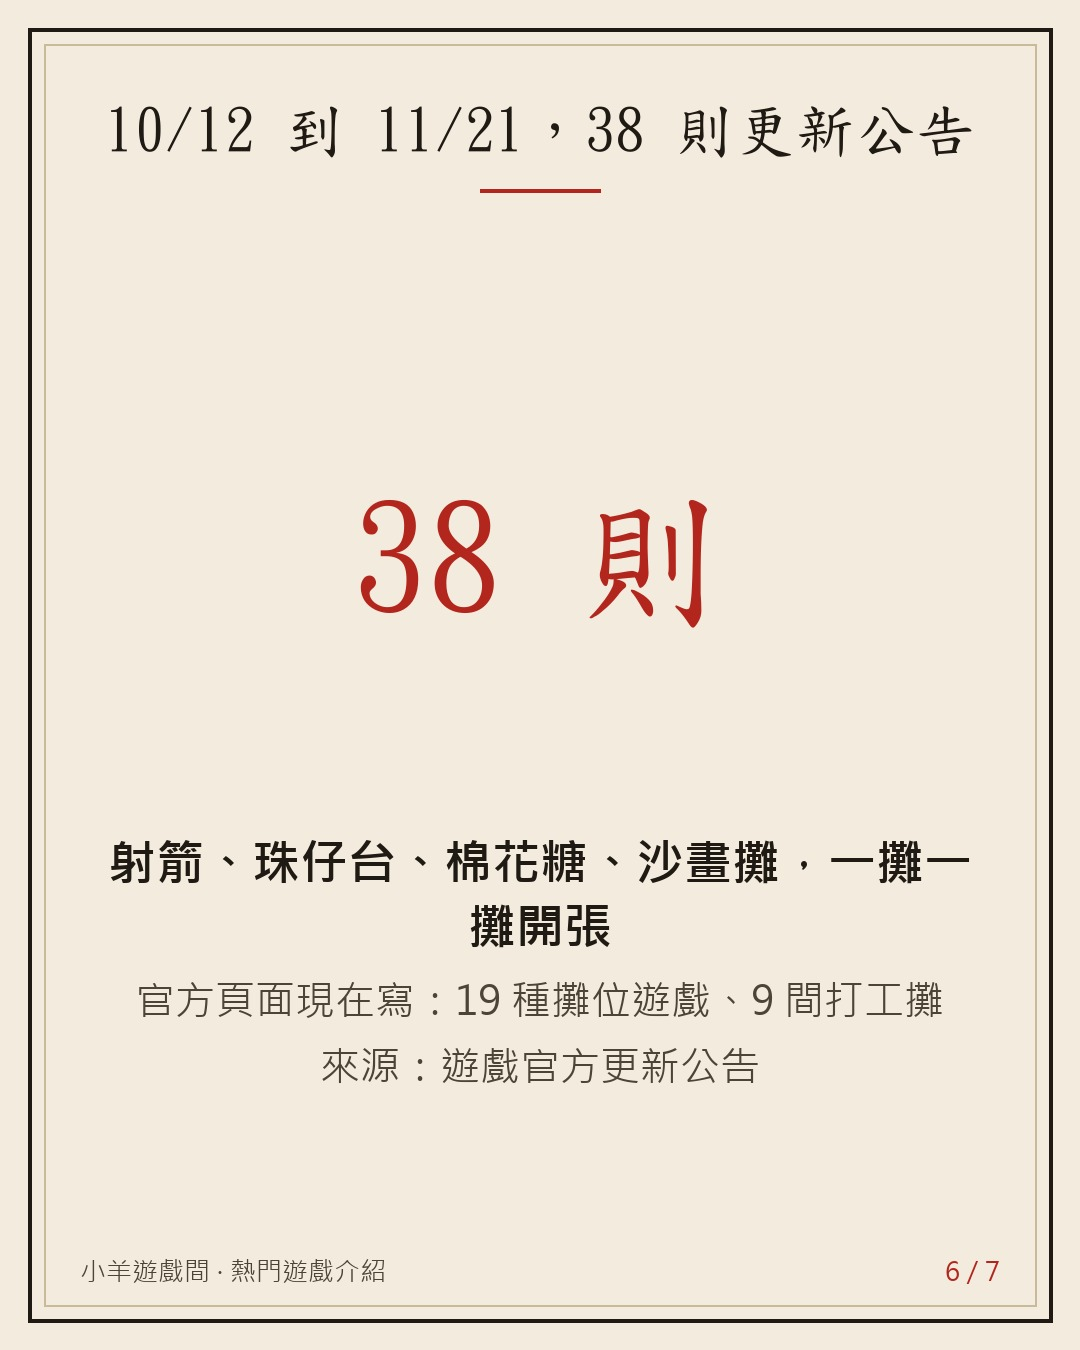
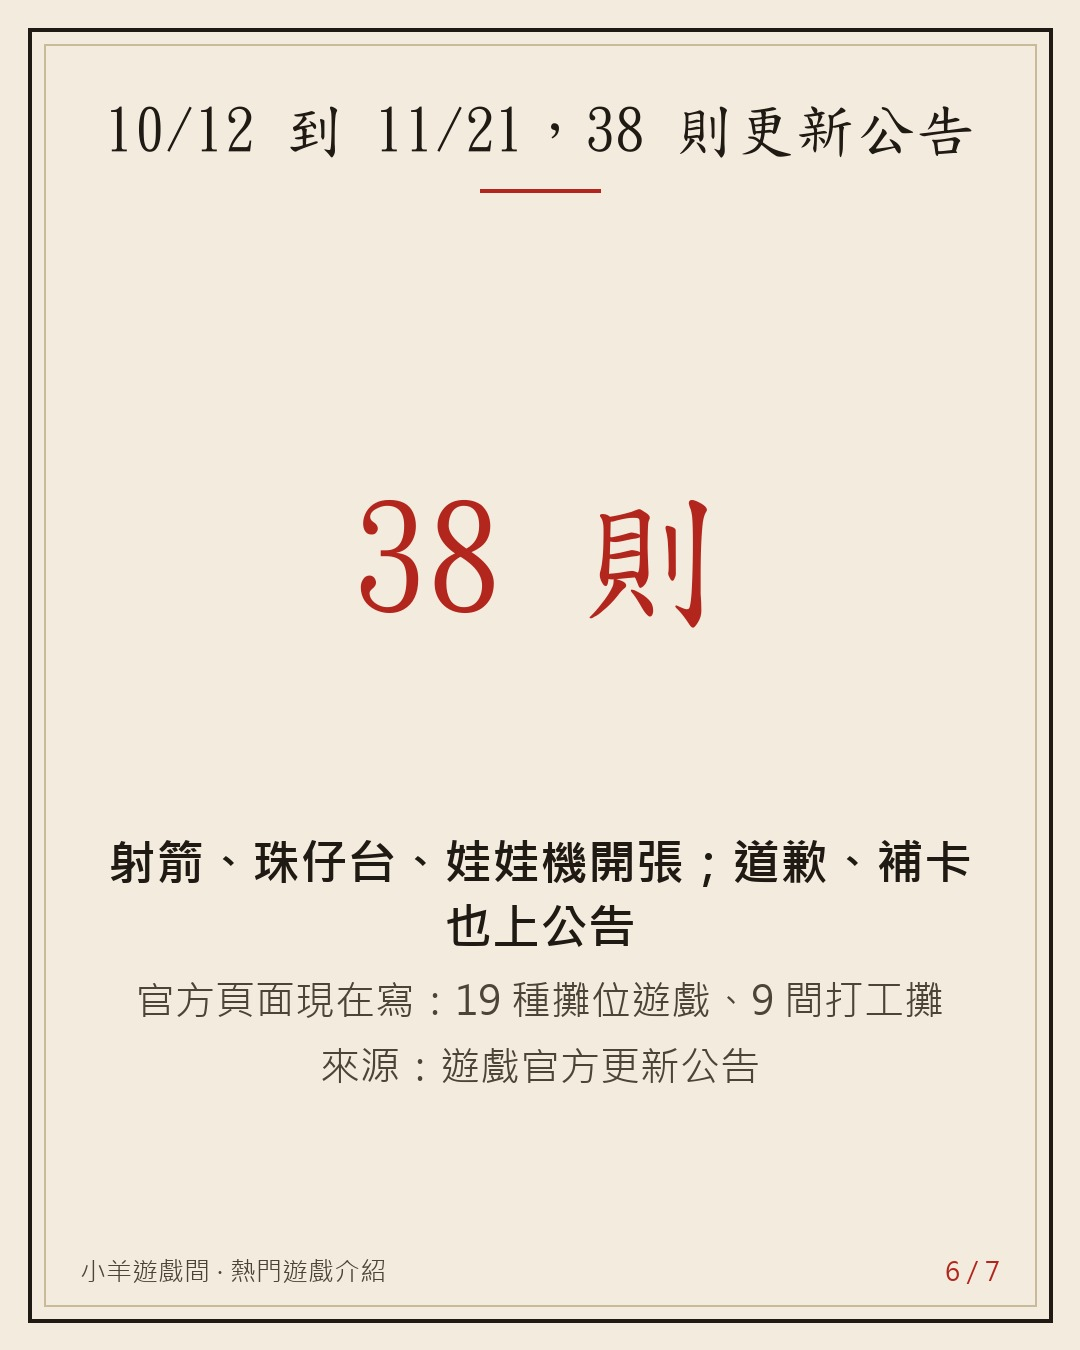
vault backup: 2026-11-22 22:41:40

Changed region(s): [[0.3972, 0.6222, 0.7639, 0.7156], [0.7944, 0.6222, 0.8861, 0.6533]]

diff --git a/Projects/auto promotion/posts/84.md b/Projects/auto promotion/posts/84.md
@@ -7,7 +7,7 @@ status: 草稿
 created: 2026-11-22 15:00
 score: 0
 ---
-# 【介紹】網頁遊戲《臺灣夜市遊樂園》：人多到排隊，官方每天賠 10,000 代幣
+# 【介紹】網頁遊戲《臺灣夜市遊樂園》：人多到伺服器撐不住，官方公告每天補償 10,000 代幣
 
 ## Threads
 ### 1
@@ -15,24 +15,23 @@ score: 0
 萬枚代幣來賠罪。
 
 【介紹】《臺灣夜市遊樂園》
-話說江湖上有一座網頁夜市：撈金魚、套圈圈、珠仔台、娃娃機，官方頁面寫 19 種攤位遊戲、9 間打工攤，免費，點開就逛。
-10/21 官方公告：來逛的人遠超預期，伺服器撐不住，同時只收會員 800 位、訪客 30 位，客滿要排隊，每天補償 10,000 代幣。
+話說江湖上有一座網頁夜市：撈金魚、套圈圈、珠仔台、娃娃機，官方頁面寫 19 種攤位遊戲、9 間打工攤，免費，點開就逛，訪客不用註冊。
+10/21 官方公告：來逛的人遠超預期，伺服器撐不住，同時只收會員 800 位、訪客 30 位，客滿要排隊，每天補償 10,000 代幣。10/22 穩下來，上限放寬到會員 1,000 位、訪客 100 位。
 ![[84/01.jpg]]
 ### 2
-且說在下翻閱官方更新公告（以下數字都出自公告，不是在下實測）：
-10/12 到 11/21，共 38 則，一攤一攤開張。
-11/5：官方調整可麗餅鋪麵糊的方式前，63 位玩家已做出 450 種以上，官方送他們稱號「瘋狂可麗餅」。
-11/7：玩家嫌稀有卡不夠強，官方重比 200 張卡、跑上萬場模擬，16 張全部強化，沒有任何卡變弱。
-江湖險惡，玩家嫌弱，掌門不削，反而補強 XD
-![[84/03.jpg]]
+且說在下翻閱官方更新公告，白紙黑字：
+11/2 可麗餅圖鑑擴到 500 種。11/5 官方調整鋪麵糊的方式，在那之前，已有 63 位玩家做出 450 種以上，官方送他們稱號「瘋狂可麗餅」。
+11/7 玩家嫌稀有卡不夠強。官方先補強 11 張；同天再把 200 張卡全部重比、跑上萬場模擬，又補強 16 張，沒有任何卡變弱。
+玩家喊弱，掌門一張不削，只補不減。江湖怪事 XD
+![[84/04.jpg]]
 ### 3
-此功手機點開即可練，不用註冊（訪客直接玩，6 小時沒玩資料會清）。官方說沒有廣告，贊助也不給任何遊戲內回饋。
-還有沙畫攤：100 張線稿、256 色彩沙。擲筊攤剛好擲到 15 個聖杯領獎，可得稱號「天選之人」。
-考考閣下：想先逛哪一攤？撈金魚、擲筊、還是去打工？留言告知👇
-下回再介紹一門網頁奇功，想看請追蹤。
-![[84/05.jpg]]
+在下的心得：人潮超出預期，官方先道歉、限人數，穩了再放寬；玩家嫌卡弱，只補不削。小弟也在做網頁小遊戲，這兩招先記下（有錯請指正 :p）
+在下一攤沒闖，連聖杯怎麼擲都沒碰，閣下見諒。
+考考閣下：想先逛撈金魚還是擲筊？一個字回我：撈／筊👇
+下回再介紹一門網頁奇功，一樣只講查得到的數字，想看請追蹤。
+![[84/02.jpg]]
 ### 連結
-《臺灣夜市遊樂園》https://yes.taiwanrpg.com/ （訪客即可玩）。想再找一門點了就玩的奇功，都在小羊遊戲間 👉 https://games.csiesheep.com/
+《臺灣夜市遊樂園》https://yes.taiwanrpg.com/ （訪客即可玩，訪客 6 小時沒玩資料會清；官方說沒有廣告，贊助也不給任何遊戲內回饋）。想再找一門點了就玩的奇功，都在小羊遊戲間 👉 https://games.csiesheep.com/
 ![[84/07.jpg]]
 
 ## Instagram
@@ -41,9 +40,9 @@ score: 0
 【介紹】《臺灣夜市遊樂園》
 話說江湖上有一座網頁夜市：撈金魚、套圈圈、珠仔台、娃娃機，官方頁面寫 19 種攤位遊戲、9 間打工攤，免費。
 10/21 官方公告：來逛的人遠超預期，伺服器撐不住，同時只收會員 800 位、訪客 30 位，客滿排隊，每天補償 10,000 代幣；10/22 上限調到 1,000／100。
-翻閱官方公告（數字出自公告，非在下實測）：11/5 有 63 位玩家做出 450 種以上可麗餅，官方送稱號「瘋狂可麗餅」；11/7 玩家嫌稀有卡不夠強，官方重比 200 張卡、16 張全部強化，沒有任何卡變弱。
-網頁點開即玩，訪客不用註冊。考考閣下：想先逛哪一攤？留言告訴我。
-下回再介紹一門網頁奇功，想看請追蹤。
+翻閱官方公告（數字出自公告）：11/5 公告說有 63 位玩家在第 1～5 冊做出 450 種以上可麗餅，官方送稱號「瘋狂可麗餅」；11/7 玩家嫌稀有卡不夠強，官方一天補強兩回（11 張、16 張），其中一回重比 200 張卡、跑上萬場模擬，沒有任何卡變弱。
+在下這回只會翻公告，一攤沒闖，閣下見諒。網頁點開即玩，訪客不用註冊。考考閣下：想先逛哪一攤？留言告訴我。
+下回再介紹一門網頁奇功，一樣只講查得到的數字，想看請追蹤。
 
 連結在主頁
 #小羊遊戲間 #網頁遊戲推薦 #免費小遊戲 #臺灣夜市遊樂園 #夜市
@@ -57,15 +56,16 @@ score: 0
 【介紹】《臺灣夜市遊樂園》
 話說江湖上有一座網頁夜市：撈金魚、套圈圈、珠仔台、娃娃機、射箭、棒球九宮格……官方頁面現在寫 19 種攤位遊戲、9 間打工攤（香雞排、珍奶、滷味、章魚燒、可麗餅等），免費，手機電腦點開就逛。官方說是個人獨立開發，沒有廣告，作者名頁面沒寫。
 
-且說在下翻閱官方更新公告（以下都是公告上的數字與說法，不是在下實測）：
-🏮 10/21：「來逛的人遠遠超出預期」，伺服器撐不住，同時最多會員 800 位、訪客 30 位，客滿排隊，每天補償 10,000 代幣；10/22 伺服器穩定後調到會員 1,000 位、訪客 100 位。
-📜 10/12 到 11/21，共 38 則更新公告，射箭、珠仔台、娃娃機、棉花糖、沙畫攤，一攤一攤開張。
+且說在下翻閱官方更新公告（以下都是公告上的數字與說法；在下這回只會翻公告，一攤沒闖，閣下見諒）：
+🏮 10/21：「來逛的人遠遠超出預期」，伺服器撐不住，同時最多會員 800 位、訪客 30 位，客滿排隊，每天補償 10,000 代幣（公告寫「在問題正式解決前」每天發放，10/22 公告說伺服器穩定，沒寫補償何時停）；10/22 上限放寬到會員 1,000 位、訪客 100 位。
+📜 10/12 到 11/21，共 38 則更新公告，有開新攤的（射箭、珠仔台、娃娃機、棉花糖、沙畫攤……）、有道歉的、有補卡的。
 🥞 可麗餅圖鑑：11/2 公告從 200 種擴充到 500 種；11/5 公告說，官方調整鋪麵糊方式前，已有 63 位玩家在第 1～5 冊做出 450 種以上，官方送他們稱號「瘋狂可麗餅」；官方可麗餅研究所頁現在寫 800 種、19 種醬、44 種配料。
-🃏 夜市集換卡：11/7 玩家反映「有些 UR 不比 SSR 好用」，官方把第一彈 200 張卡全部重比一遍、跑了上萬場模擬，16 張卡全部強化，沒有任何卡變弱。江湖險惡，玩家嫌弱，掌門不削，反而補強 XD
+🃏 夜市集換卡：11/7 玩家反映「有些 UR 沒比 SSR 好用」，官方先補強 11 張；同天又把第一彈 200 張卡全部重比一遍、跑了上萬場模擬，再補強 16 張，兩回的公告都寫「沒有任何卡變弱」。玩家喊弱，掌門只補不減，江湖怪事 XD
 🎴 擲筊攤：連續擲出聖杯，剛好擲到 15 個聖杯領獎，可得稱號「天選之人」，不限人數。
 
 此功手機點開即可練，訪客直接玩，不用註冊（訪客 6 小時沒玩資料會清；註冊可存進度）。官方說贊助自願，不給任何遊戲內回饋。
-考考閣下：想先逛哪一攤？撈金魚、擲筊、還是去打工？留言告知。下回再介紹一門網頁奇功，想看請追蹤。
+小弟的心得：人潮超出預期，官方先道歉、限人數，穩了再放寬；玩家嫌卡弱，補強完還把 200 張全部重比一遍（有錯請指正 :p）。
+考考閣下：想先逛哪一攤？撈金魚、擲筊、還是去打工？留言告知。下回再介紹一門網頁奇功，一樣只講查得到的數字，想看請追蹤。
 
 遊戲：https://yes.taiwanrpg.com/
 👉 更多點了就玩的網頁小遊戲（不用註冊），都在小羊遊戲間：https://games.csiesheep.com/
@@ -77,6 +77,7 @@ score: 0
 ## Sources
 - https://yes.taiwanrpg.com/ （2026-11-22 抓頁，頁面本身 7 KB、公告區 38 則，存於 Pictures/auto_promotion/post_frames/84_nightmarket/shots/home.txt）— 標題「臺灣夜市遊樂園」；meta 描述 19 款夜市遊戲、4 間打工攤、1000 種收藏（og 圖版本 20261028，與下列頁面「19 種攤位遊戲、9 間打工攤」是不同時間的數字，貼文用最新的）；og:image 為官方整座夜市俯視全景圖
 - https://yes.taiwanrpg.com/ 內「更新公告」（10/12–11/21，共 38 則）— 10/21「致各位玩家的道歉」原文：來逛的人遠遠超出預期、伺服器效能撐不住、會員 800／訪客 30、每天 00:00 補償 10,000 代幣；10/22 提高到會員 1,000／訪客 100；11/2 可麗餅圖鑑 200→500 種、可麗餅打工統計「90 秒大概只做得出 5 份」；11/5 「瘋狂可麗餅」稱號送 63 位玩家（調整鋪麵糊前在第 1～5 冊做出 450 種以上）；11/7 兩則集換卡強化（11 張、16 張，「沒有任何卡變弱」，跑上萬場模擬、重比第一彈 200 張，玩家反映 UR 不如 SP/SSR）；10/20 擲筊：13/14/15 個聖杯領取得「運氣來了／運氣爆發／天選之人」，達成都拿得到；11/7「我今天好累」按鈕（每週一次）
+- 同公告其他原文（供查核）：10/21「額滿時需要排隊等待，畫面上會顯示你排在第幾位」；10/23 娃娃機開張、10/24 射箭開張、10/26 珠仔台開張、10/29 棉花糖打工攤、11/8 沙畫攤開張；10/16 起有棒球九宮格、投籃高手、罐桃王、香雞排與珍珠奶茶打工，後有滷味、章魚燒、可麗餅打工；11/7 第一則「有些 UR 沒比 SSR 好用」「SR 跟 R 一模一樣」→ 補強 11 張，第二則重比第一彈 200 張、跑上萬場模擬 → 補強 16 張，兩則都寫「沒有任何卡變弱」；10/21 補償「在問題正式解決前」每天 00:00 發 10,000 代幣（10/22 公告伺服器已穩定，沒有寫補償何時停，所以標題寫「官方公告每天補償」）；頁面首頁「訪客資料 6 小時沒玩會刪、會員永久保留」
 - https://yes.taiwanrpg.com/crepe/ 、https://yes.taiwanrpg.com/cards/ 、https://yes.taiwanrpg.com/sand/ （2026-11-22 頁面截圖，免登入頁，沒有進入遊戲）— 可麗餅研究所：800 種、19 種醬、44 種配料、免登入、「沒有廣告，靠玩家贊助支持」；集換卡頁：200 張卡牌、24 張卡組、「19 種攤位遊戲、9 間打工攤」；沙畫攤：100 張線稿、256 色、每種有名稱與色號
 - https://yes.taiwanrpg.com/terms.html （最後更新 2026-10-28）— 歡迎截圖、錄影、寫心得，請註明「臺灣夜市遊樂園」或附網址；不可大量自動下載、不可用外掛／自動操作程式影響遊戲結果、不可把內容用於訓練 AI。所以本篇不做自動化遊玩，也沒有實測數字，只用官方公告與官方頁面；圖片只裁切、標來源
 - https://yes.taiwanrpg.com/sponsor.html 、https://yes.taiwanrpg.com/privacy.html — 個人獨立開發、沒有廣告、贊助自願且不給遊戲內回饋；訪客超過 6 小時沒玩資料刪除；作者名沒有寫
